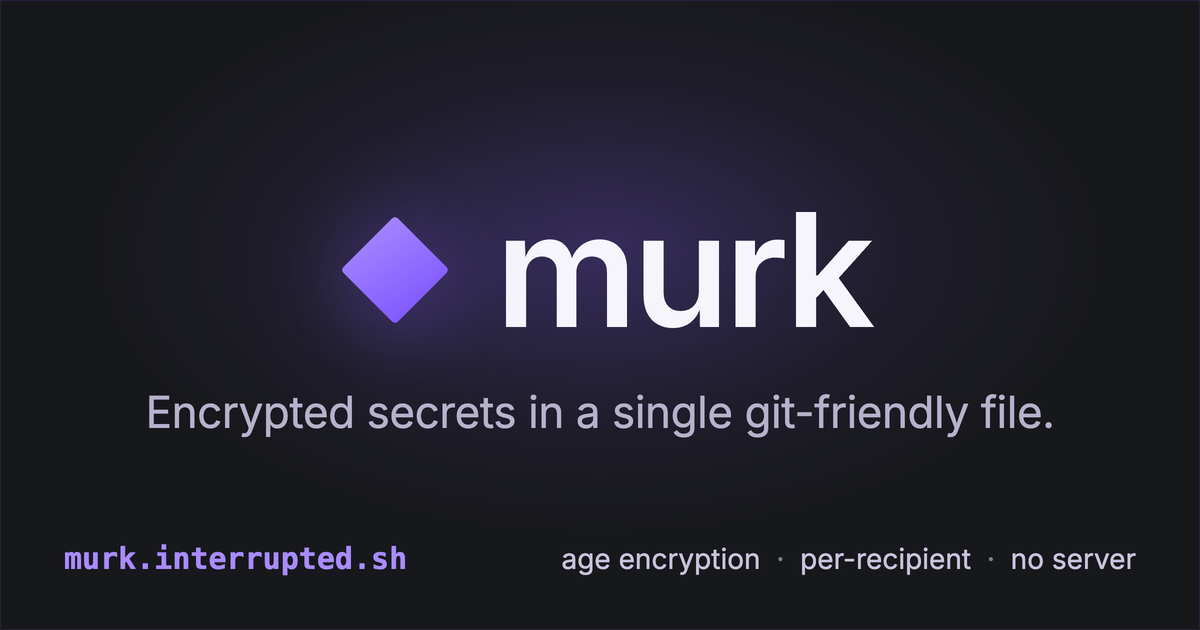
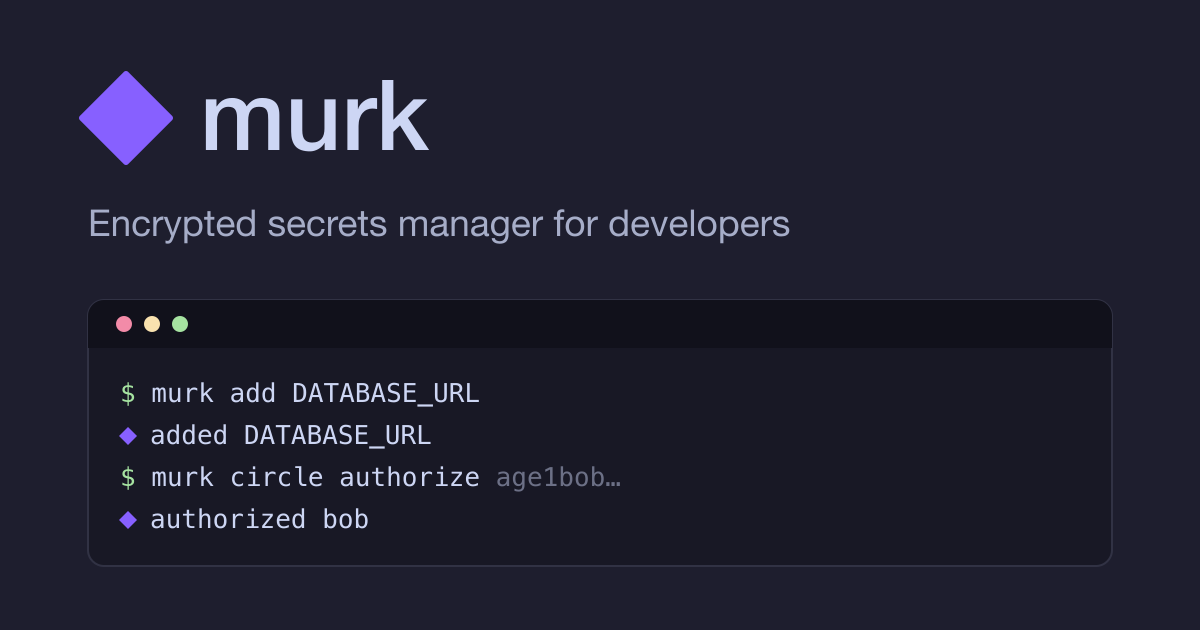
docs: add brand guide, align assets to brand purple, and refine agent positioning

diff --git a/docs-site/src/styles/brand.css b/docs-site/src/styles/brand.css
@@ -79,7 +79,7 @@
   margin-inline-end: 0.55em;
   vertical-align: 0.02em;
   border-radius: 1.5px;
-  background: linear-gradient(135deg, #a98bff, #7b52ff);
+  background: #8760ff;
   transform: rotate(45deg);
 }
 

diff --git a/docs/brand.md b/docs/brand.md
@@ -1,0 +1,110 @@
+# murk brand guide
+
+The single source of truth for murk's color, mark, and voice. The live CLI and
+the fixed brand assets follow *different* color rules — read the split below
+before changing either.
+
+## The one purple
+
+murk's brand purple is **`#8760FF`** — the project's one canonical purple.
+Every fixed-color surface — logo, lockup, favicon, social card, website accent,
+recorded demo GIFs — uses this exact hex.
+
+UI accent ramps may derive tints *from* it — the site's Starlight theme uses a
+dark low (`#241a4d`), a light high (`#d3c8ff`), and alpha glows (`#8760ff40`,
+the brand purple at 25%). Those are sanctioned derivations of the one purple,
+not new brand colors. A second, standalone base purple anywhere is drift; fix
+it, don't add to it.
+
+## CLI color vs. asset color
+
+Two surfaces, two rules:
+
+- **The live CLI emits semantic ANSI, never a fixed hex.** The mark and every
+  status color go through the `colored` crate's semantic helpers (see
+  [cli-style.md](./cli-style.md)). The `◆` mark is ANSI magenta (SGR 35); the
+  *terminal* decides the actual RGB from the user's theme. That's intentional —
+  murk adapts to the user's terminal instead of fighting it.
+- **Fixed-color assets standardize on `#8760FF`.** Anything murk ships as a
+  rendered image — logos, favicon, social card, recorded demo GIFs — is drawn
+  in the brand purple, not left to a theme.
+
+The demo GIFs bridge the two: the CLI still emits ANSI magenta, but the VHS
+recording theme overrides magenta to `#8760FF`, so the recorded mark shows the
+brand color rather than the terminal palette's magenta.
+
+## Palette
+
+The CLI emits ANSI slots (universal, theme-decided). The hex column is how those
+slots render in brand/demo contexts — Catppuccin Mocha, with magenta overridden
+to the brand purple.
+
+| Role             | Glyph | CLI emits (ANSI)    | Brand hex             |
+|------------------|-------|---------------------|-----------------------|
+| brand mark       | ◆     | magenta (SGR 35)    | `#8760FF` (fixed)     |
+| scoped mote      | ✦     | yellow (SGR 33)     | `#f9e2af`             |
+| ok / recipient   |       | green bold (1;32)   | `#a6e3a1`             |
+| warn             | ⚠     | yellow bold (1;33)  | `#f9e2af`             |
+| error            | ✕     | red bold (1;31)     | `#f38ba8`             |
+| hint             |       | cyan bold (1;36)    | `#94e2d5`             |
+| dimmed           |       | faint (SGR 2)       | `#6c7086` (assets only) |
+| foreground       |       | default fg (39)     | `#cdd6f4`             |
+| background       |       | default bg (49)     | `#1e1e2e`             |
+
+`dimmed` has no palette slot — it's the SGR 2 faint attribute over the
+foreground, so its rendered color varies by terminal. `#6c7086` is only for
+drawing dimmed text in static assets.
+
+## The mark
+
+The murk mark is a **diamond (`◆`)** — a rotated square, drawn as a vector path,
+never a font glyph (a glyph renders differently across platforms and fonts). The
+lockup is the diamond followed by the lowercase wordmark: **◆ murk**.
+
+## Contrast
+
+`#8760FF` measured against common backgrounds:
+
+| Background             | Ratio  |
+|------------------------|--------|
+| Mocha base `#1e1e2e`   | 4.02:1 |
+| White                  | 4.08:1 |
+| GitHub dark            | 4.64:1 |
+
+All clear the **3:1** bar for graphics and large marks (safe on light and dark
+READMEs), but fall under the **4.5:1** bar for small body text. Use the purple
+as a **mark or accent only** — never for small text on a dark background.
+
+## Voice
+
+murk is **"an encrypted secrets manager for developers."** Plain, technical, no
+marketing gloss: say what it does, then what it doesn't.
+
+Pair a public claim with the honesty line — murk is **pre-1.0 and has not been
+independently audited**; use good judgment with production secrets. That caveat
+is part of the voice, not a disclaimer to bury: it's what makes the security
+claims credible.
+
+## Agent positioning
+
+Reusable copy for the agent-safe story, in the plain voice above. Pull from
+these for the README, docs, and launch materials so the claim stays consistent
+and precise. The full narrative and the security boundary live in the AI agents
+& MCP guide on the docs site.
+
+**Headline:** Let coding agents use your secrets without giving them your key.
+
+**Subhead:** Agents read the vault's schema (names and descriptions, no values)
+to write code and config. When they need to run something, you mint a
+short-lived grant scoped to only the secrets you name. They never get the key
+that decrypts everything.
+
+**One-liner:** Scoped, revocable secret access for coding agents.
+
+**Two-sentence pitch:** murk lets coding agents work with your secrets without
+handing over the key to your vault. They read the schema to plan, then run
+against a short-lived grant scoped to only the secrets you name.
+
+**Boundary line** (include wherever the claim appears): This reduces where
+secrets are exposed; it doesn't prevent a commanded process from printing one.
+It's least-privilege, not a sandbox.

diff --git a/docs-site/src/content/docs/guides/ai-agents-mcp.md b/docs-site/src/content/docs/guides/ai-agents-mcp.md
@@ -5,12 +5,30 @@ sidebar:
   order: 9
 ---
 
-AI coding agents need secrets: API keys, database URLs, service tokens. The
-common pattern is pasting them into `.env` files or chat prompts. Both are
-bad: prompts get logged, `.env` files get committed, and there's no way to
-revoke access when the session ends.
+AI coding agents need secrets to do real work: an API key to call a service, a
+database URL to run a migration. The usual way to hand them over is to paste a
+value into a prompt or point the agent at a `.env` file. Both can leak. Prompts
+are often logged, and sometimes sent to third-party APIs. `.env` files get
+committed by accident. And once a value is in a log or a prompt, you can't pull
+it back.
 
-murk gives agents access to secrets without exposing them in plaintext.
+murk splits this into two steps.
+
+To understand a project, an agent doesn't need values, it needs to know what
+secrets exist. `murk agent plan` prints the schema — key names, descriptions,
+and tags — with no decryption and no key involved. The agent writes code and
+config against those names without seeing a value.
+
+To run a command, you mint a grant: a short-lived key that decrypts only the
+secrets you name, with a time limit. The agent runs against that grant, never
+your own key, and you can revoke it. If a task only needs `STRIPE_KEY`, that's
+the only thing the grant can read.
+
+This narrows where secrets are exposed. It doesn't make a leak impossible: a
+command the agent runs can still print a value to its own output, and a grant
+key stored on disk can be read by anything running as your user. murk gives you
+least-privilege, expiring, revocable access, not a sandbox. For real isolation,
+run the agent as a separate user or in a container.
 
 ## Rules
 
@@ -219,17 +237,28 @@ grant and writing the config in one step:
 # Auto-detect the editors this repo uses and wire them all:
 murk agent connect --only STRIPE_SECRET_KEY --only DATABASE_URL --ttl 2h
 
-# ...or target one (claude, cursor, vscode):
+# ...or target one (claude, cursor, vscode, zed, gemini, omp, codex):
 murk agent connect cursor --only STRIPE_SECRET_KEY
 ```
 
 `connect` mints one scoped grant for the vault and writes each editor's
-project-local config — Claude Code `.mcp.json`, Cursor `.cursor/mcp.json`,
-VS Code `.vscode/mcp.json` — pointing at `murk mcp` with `MURK_KEY_FILE` and
-`MURK_AGENT=1`. It writes only a key-file **path**, never key material, and
-preserves any other servers and comments already in the file. Add
-`--allow-exec` to also expose the exec tool. Because these files are often
-committed, murk warns and offers to add the path to `.gitignore`.
+project-local config, pointing at `murk mcp` with `MURK_KEY_FILE` and
+`MURK_AGENT=1`:
+
+| Editor | Config file | Format |
+| --- | --- | --- |
+| Claude Code | `.mcp.json` | JSON |
+| Cursor | `.cursor/mcp.json` | JSON |
+| VS Code | `.vscode/mcp.json` | JSON |
+| Zed | `.zed/settings.json` | JSON |
+| Gemini CLI | `.gemini/settings.json` | JSON |
+| omp | `.omp/mcp.json` | JSON |
+| Codex | `.codex/config.toml` | TOML |
+
+It writes only a key-file **path**, never key material, and preserves any
+other servers and comments already in the file. Add `--allow-exec` to also
+expose the exec tool. Because these files are often committed, murk warns and
+offers to add the path to `.gitignore`.
 
 `murk agent disconnect [CLIENT]` removes only murk's entry, leaving other
 servers untouched; add `--rotate` to revoke the grant and rotate the keys it

diff --git a/docs/cli-style.md b/docs/cli-style.md
@@ -79,6 +79,10 @@ The demo theme is Catppuccin Mocha but the CLI should degrade gracefully
 on any terminal. Always use the `colored` crate's semantic helpers
 (`.green().bold()`, `.dimmed()`) — never raw ANSI escapes.
 
+See [brand.md](./brand.md) for the canonical palette (ANSI slots and brand
+hex), the brand purple `#8760FF`, and the rule that the CLI stays
+theme-adaptive while fixed assets use the locked hex.
+
 ## Examples from the codebase
 
 ```rust
